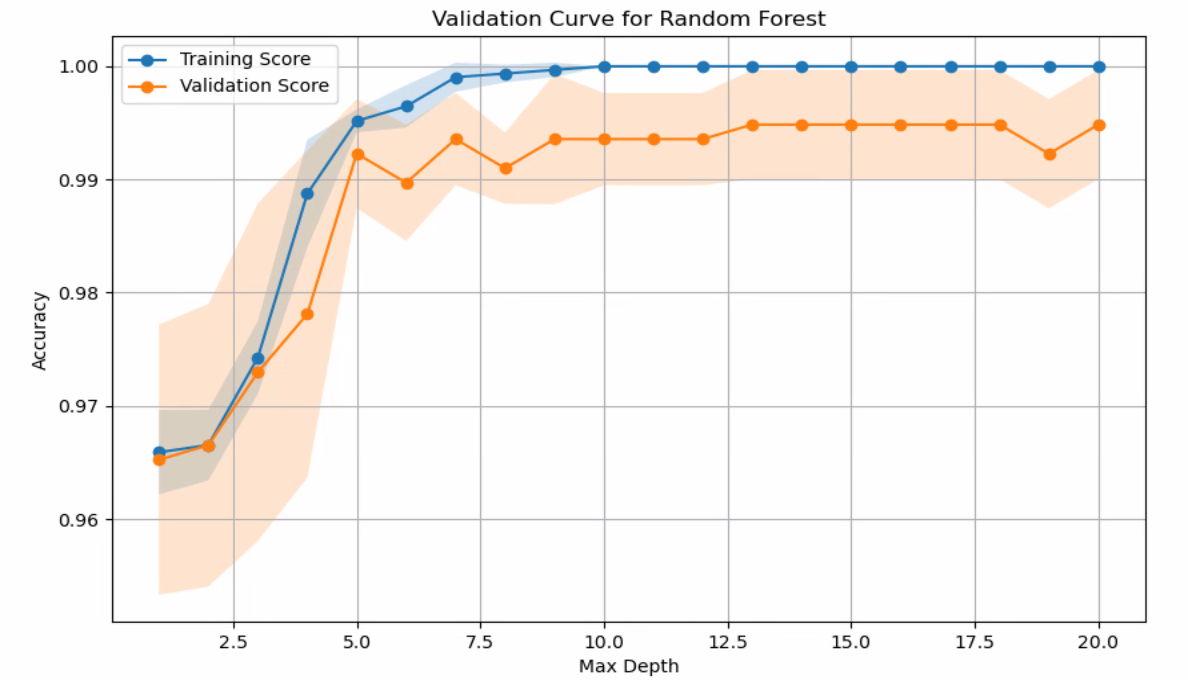
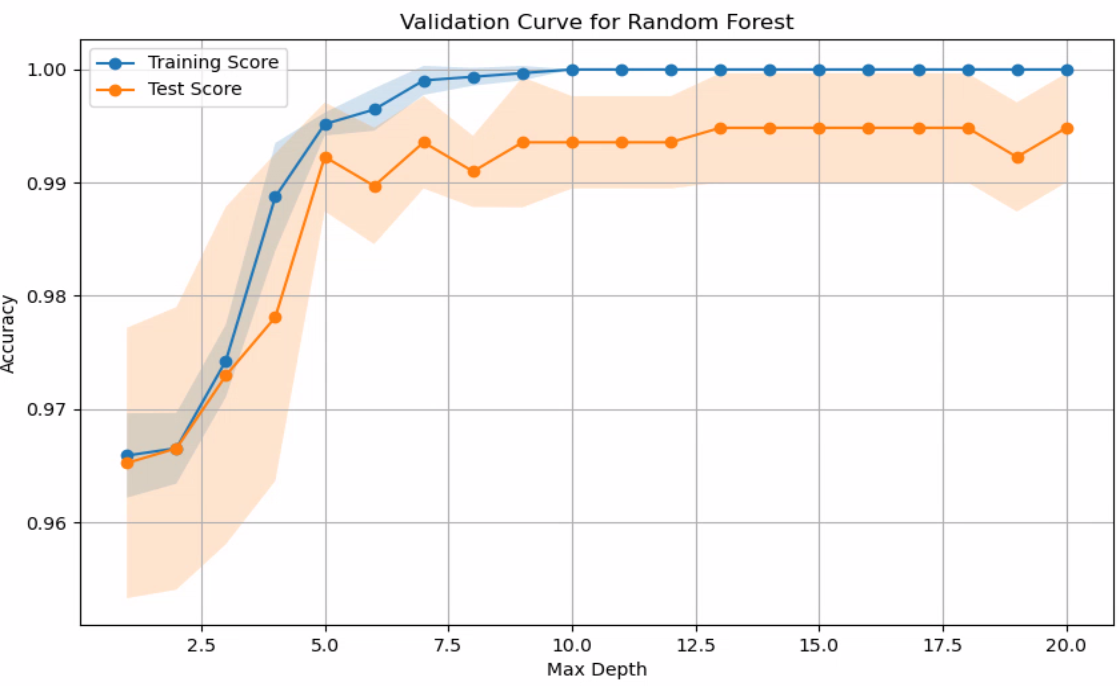
Updated diagram

Changed region(s): [[0.0, 0.0, 1.0, 1.0], [0.0, 0.4015, 0.125, 0.5559], [0.6875, 0.4015, 0.75, 0.4324]]

diff --git a/Classification/Syslog/syslog_overfitting.py b/Classification/Syslog/syslog_overfitting.py
@@ -62,7 +62,7 @@ plt.plot(param_range, train_mean, label="Training Score", marker="o")
 plt.fill_between(param_range, train_mean - train_std,
                  train_mean + train_std, alpha=0.2)
 
-plt.plot(param_range, test_mean, label="Validation Score", marker="o")
+plt.plot(param_range, test_mean, label="Test Score", marker="o")
 plt.fill_between(param_range, test_mean - test_std,
                  test_mean + test_std, alpha=0.2)
 

diff --git a/Classification/Syslog/log_analysis_with_machine_learning.md b/Classification/Syslog/log_analysis_with_machine_learning.md
@@ -756,3 +756,6 @@ plt.show()
 ```
 
 ![Learning](./Resources/../../../Resources/validation_curve_random_forest_max_depth.png)
+
+#### Interpreting the Graph
+
